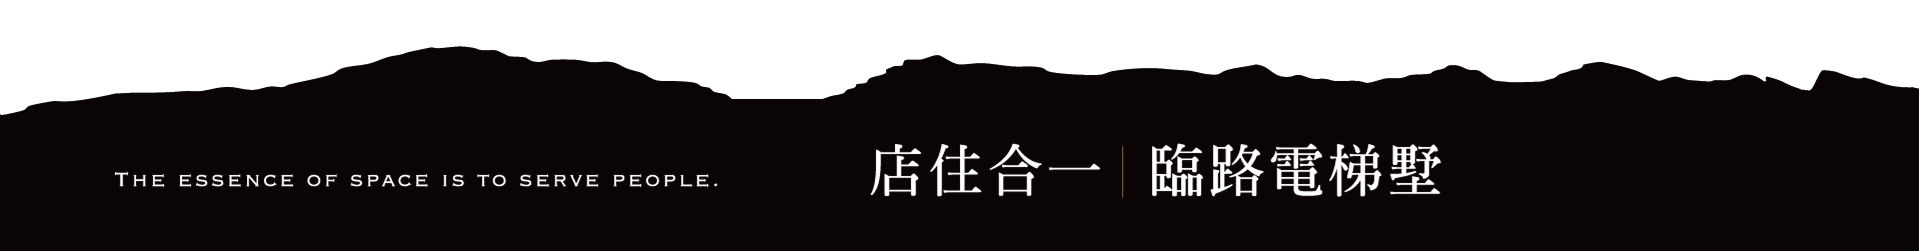
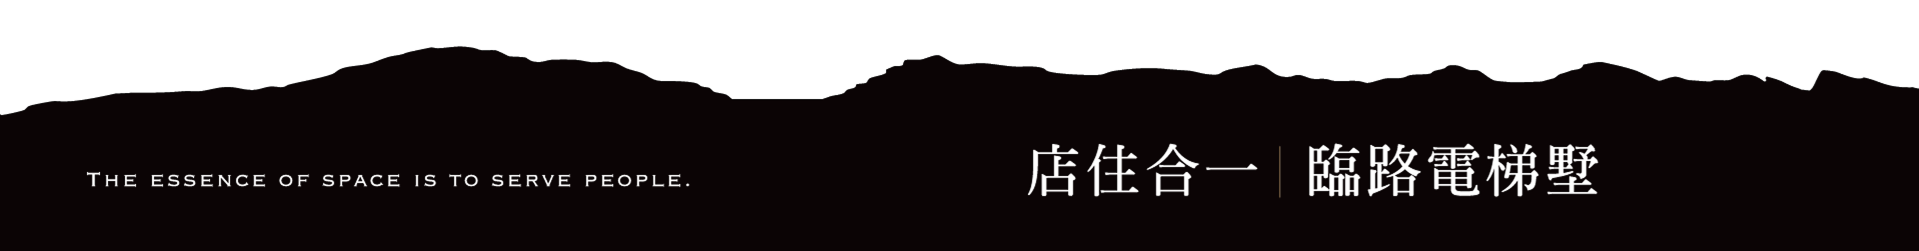
S1 主頁圖片100%

Changed region(s): [[0.4304, 0.5578, 0.8301, 0.7809], [0.0307, 0.6693, 0.3689, 0.753]]

diff --git a/src/section/s6.vue b/src/section/s6.vue
@@ -2,9 +2,9 @@
   <article class="s6" ref="s6">
     <div class="main">
       <div class="txt">
-        <h3 class="title" data-aos="fade-up" data-aos-delay="0">兩代完美共融 <br v-if="isMobile"> 獨立空間不打擾</h3>
+        <h3 class="title" data-aos="fade-up" data-aos-delay="0">漫步生命之河<br v-if="isMobile">&nbsp;&nbsp;徜徉公園綠意</h3>
         <p class="desc" data-aos="fade-up" data-aos-delay="400">
-          除了自住同步收租，也可規劃一間自住一間孝親，兩代同堂不同室，獨立門戶享充足隱私，近鄰雙公園、家樂福，方便隨時出門散步、購物共聚天倫，家人之間的親情不再因居住距離而降溫。</p>
+          日常裡,步伐放慢,沿著龍頸溪畔漫步, 讓水岸綠意成為生活的一部分。 週末時光,轉身走進六堆紀念公園, 奔跑、打球、嬉戲,為生活注入滿滿活力。</p>
       </div>
     </div>
     <div class="slider" data-aos="fade">
@@ -203,24 +203,20 @@ const options = {
 
 const imgs = [
   {
-    img: new URL("./s6/1.webp", import.meta.url).href,
-    caption: "五華國小實景"
+    img: new URL("./s6/s6-g1.png", import.meta.url).href,
+    caption: ""
   },
   {
-    img: new URL("./s6/2.webp", import.meta.url).href,
-    caption: "淡水河畔公園實景"
+    img: new URL("./s6/s6-g2.png", import.meta.url).href,
+    caption: ""
   },
   {
-    img: new URL("./s6/3.webp", import.meta.url).href,
-    caption: "家樂福商圈實景"
+    img: new URL("./s6/s6-g3.png", import.meta.url).href,
+    caption: ""
   },
   {
-    img: new URL("./s6/4.webp", import.meta.url).href,
-    caption: "星巴克重陽集賢門市實景"
-  },
-  {
-    img: new URL("./s6/5.webp", import.meta.url).href,
-    caption: "親水公園實景"
+    img: new URL("./s6/s6-g4.png", import.meta.url).href,
+    caption: ""
   },
 ]
 </script>

diff --git a/src/section/s3.vue b/src/section/s3.vue
@@ -3,10 +3,10 @@
     <div class="main">
       <div class="txt">
         <h3 class="title" data-aos="fade-up" data-aos-delay="0">
-          樓下展開事業藍圖 <br /> 樓上享受家的溫度
+          義大健康園區 <br /> 全新醫療聚落
         </h3>
         <p class="desc" data-aos="fade-up" data-aos-delay="400">
-          不論是品牌旗艦、美學沙龍、醫美診所、美食餐館…等, 「春陽沄集」給您一個具備地段、人潮、產權、 潛力的「全能金店」,實現您心目中的事業藍圖。</p>
+          未來集醫療、娛樂、百貨於一身的生活聚落,不僅提供完善醫療資源, 也承載未來的退休照護,結合百貨商城,所帶來的不只有便利, 更是源源不絕的人口紅利與錢潮動能,讓世代安居之際, 同步擁抱店舖的無限潛力。</p>
       </div>
     </div>
     <div class="slider" data-aos="fade">

diff --git a/src/section/s1.vue b/src/section/s1.vue
@@ -140,7 +140,9 @@
     bottom: 0px;
     width: 100%;
 
-    img {}
+    img {
+      width: 100%;
+    }
   }
 }
 
@@ -182,7 +184,7 @@
     }
 
     .eggbg {
-      top: 70%;
+      top: 55%;
       width: 37%;
       left: -1%;
     }
@@ -205,7 +207,7 @@
 
     .hill {
       bottom: 0px;
-      left: -9vw;
+      left: 0vw;
     }
 
 

diff --git a/src/section/s5.vue b/src/section/s5.vue
@@ -74,6 +74,10 @@
     height: size(844);
     width: size(1500);
 
+    .splide__slide img {
+      width: 100%;
+    }
+
     .slide-item {
       @apply bg-cover;
       width: 100%;
